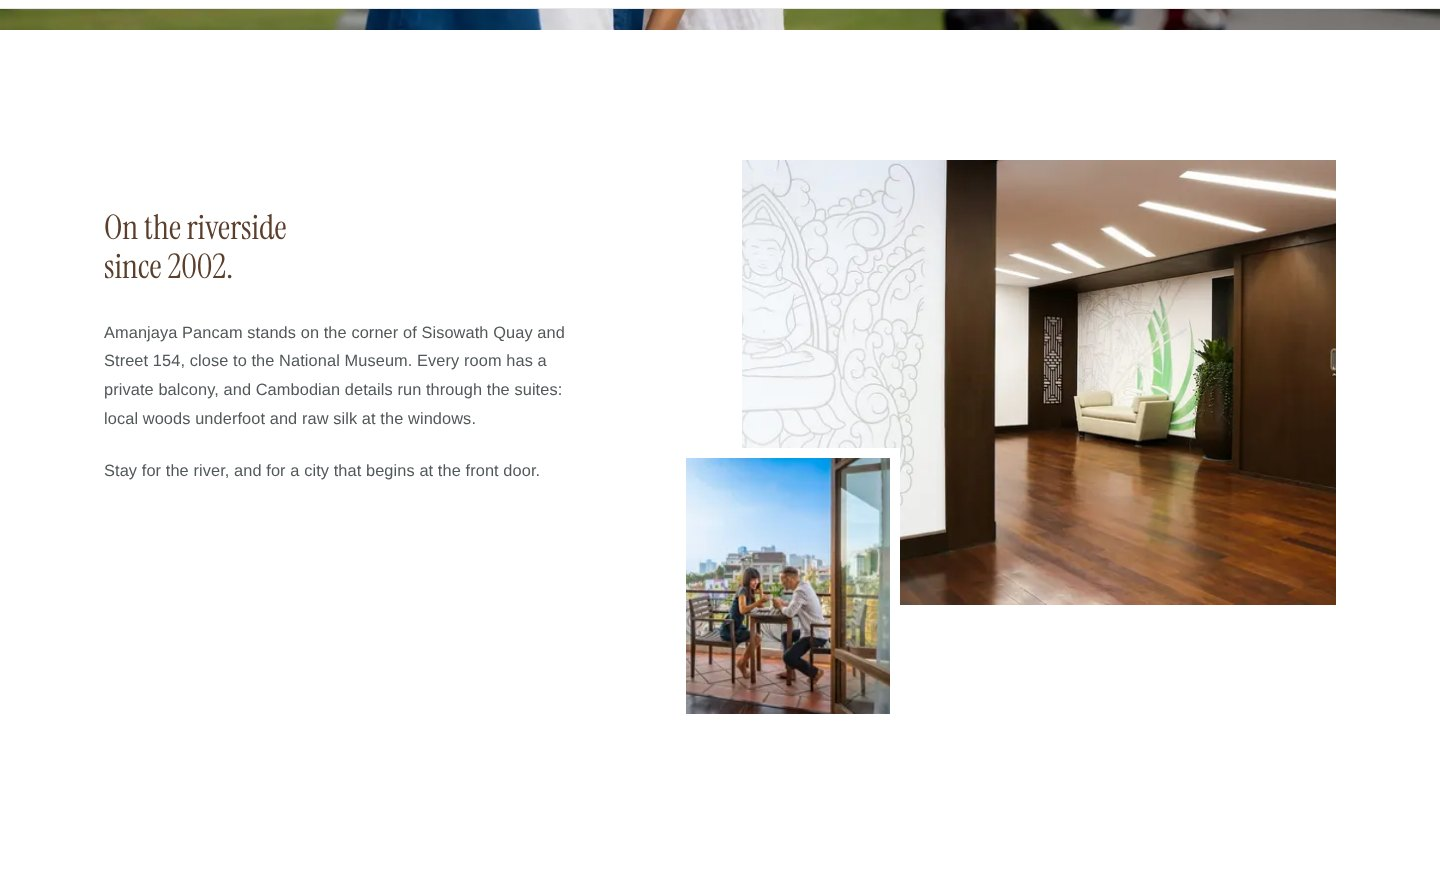
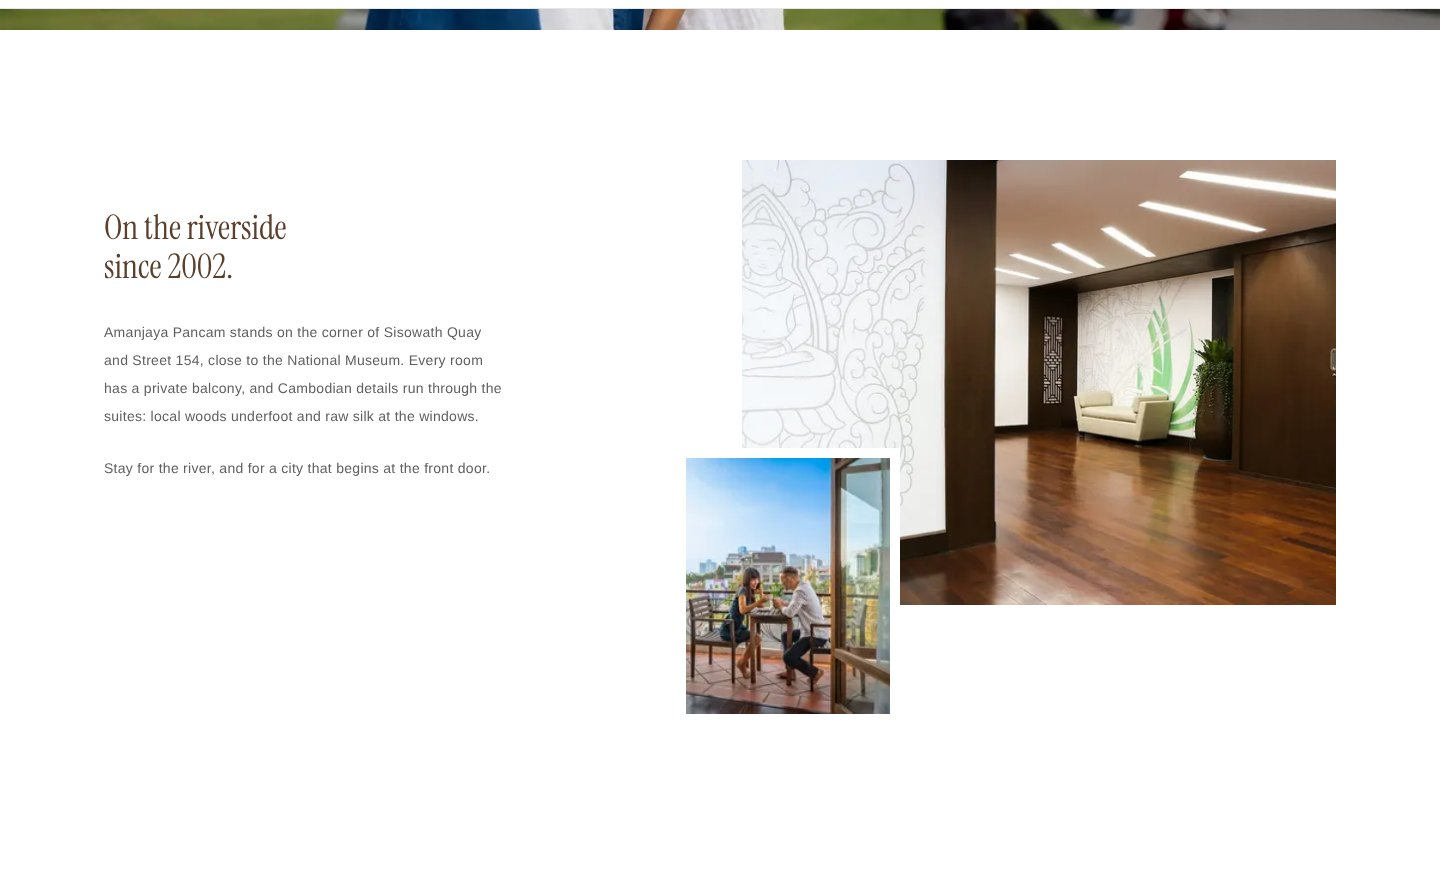
Body text: Helvetica 14px, spacing 20, line height 28, dark grey #5F5F5F
Replaces the earlier 16.5px / 1.75 / #52585A guess with the values in the
design file (Adobe XD panel): Helvetica Regular 14, character spacing 20
(0.02em), line height 28 (2.0), fill #5F5F5F (6.4:1 on white). One set of
tokens in global.css drives body text and paragraphs site-wide; the secondary
grey is now the same value. Small notes step down to 13px; buttons,
navigation, the photo-mosaic overlay and the footer's lists keep their
original line heights, so no photograph, panel or grid changes size (checked
against the previous build). Instrument Serif headings unchanged.
Before/after images refreshed; notes in docs/TYPOGRAPHY.md section 7.

Claude-Session: https://claude.ai/code/session_01Ltb6LhfXKYs7J7ZKfoUyej

Changed region(s): [[0.0625, 0.3669, 0.4062, 0.4892], [0.0625, 0.5198, 0.375, 0.5504]]

diff --git a/src/styles/global.css b/src/styles/global.css
@@ -9,8 +9,8 @@
   --bronze: #8c6a3f; /* hairlines, the waterline, small accents (4.9:1 on white) */
   --bronze-deep: #6b4e2c; /* links and small bronze text (7.6:1 on white) */
   --bronze-light: #d2b686; /* lines and links on dark (4.9:1 on teak, 6.5:1 on charcoal) */
-  --grey-text: #5c5c5c; /* secondary text (6.7:1 on white) */
-  --ink: #52585a; /* body text: a softer charcoal-grey (7.2:1 on white) */
+  --grey-text: #5f5f5f; /* secondary text: the same dark grey as the body (6.4:1 on white) */
+  --ink: #5f5f5f; /* body text: dark grey, as set in the design file (6.4:1 on white) */
   --on-dark-soft: rgb(255 255 255 / 0.82); /* body text on teak (7.0:1) and charcoal (9.0:1) */
   --line: #e6e6e6; /* neutral hairlines (header, menu) */
   --grey-fill: #f2f2f2; /* only visible while a photograph is loading */
@@ -23,9 +23,16 @@
   --font-heading: 'Montserrat Variable', 'Segoe UI', system-ui, -apple-system, sans-serif;
   --font-text: 'Helvetica Neue', Helvetica, Arial, sans-serif;
 
-  /* Fluid between 360px and 1280px wide, then fixed. Body 16 to 16.5px. */
+  /* Body text, as set in the design file (Adobe XD): Helvetica Regular 14, character spacing 20 (thousandths of an
+     em, so 0.02em), line height 28 (so 2.0), dark grey. Small notes and labels sit a step below (13px). */
+  --text-size: 0.875rem;
+  --text-small: 0.8125rem;
+  --text-leading: 2;
+  --text-tracking: 0.02em;
+
+  /* Fluid between 360px and 1280px wide, then fixed. Larger steps are for buttons and interface, not body text. */
   --step--1: clamp(0.875rem, 0.85rem + 0.1vw, 0.9375rem); /* small UI text: 14 to 15px */
-  --step-0: clamp(1rem, 0.995rem + 0.03vw, 1.03125rem); /* body: 16 to 16.5px */
+  --step-0: clamp(1rem, 0.995rem + 0.03vw, 1.03125rem); /* prominent buttons: 16 to 16.5px */
   --step-1: clamp(1.0625rem, 1.038rem + 0.109vw, 1.125rem); /* lead text and small headings: 17 to 18px */
   --step-2: clamp(1.1875rem, 1.09rem + 0.435vw, 1.4375rem); /* h3 */
   --step-3: clamp(1.5rem, 1.304rem + 0.87vw, 2rem); /* h2 */
@@ -60,9 +67,10 @@ body {
   background: var(--white);
   color: var(--ink);
   font-family: var(--font-text);
-  font-size: var(--step-0);
+  font-size: var(--text-size);
   font-weight: 400;
-  line-height: 1.75;
+  line-height: var(--text-leading);
+  letter-spacing: var(--text-tracking);
   font-optical-sizing: auto;
   text-rendering: optimizeLegibility;
 }
@@ -129,19 +137,18 @@ p {
   text-wrap: pretty;
 }
 
-/* Main body paragraphs (typography experiment): Helvetica 400 at 16 to 16.5px in a soft charcoal-grey, line height
-   1.75, almost no letter spacing, on a measure of about 52 characters of the font's width (roughly 60 characters
-   of text) so lines stay short and calm. Justification needs a long line to look even: in a column under about
+/* Main body paragraphs: Helvetica Regular 14px, character spacing 0.02em, line height 28px, dark grey #5F5F5F (the
+   values in the design file), on a measure of about 52 characters of the font's width so lines stay short and calm. Justification needs a long line to look even: in a column under about
    550px (phones, and the side-by-side columns from 56rem up) word gaps stretch to two to five times normal, so
    those are left-aligned. It is justified only where the sections stack into a wide single column (40rem to
    56rem). To justify everywhere, remove the max-width below; see docs/TYPOGRAPHY.md. */
 .copy {
   max-width: 52ch;
   font-family: var(--font-text);
-  font-size: var(--step-0);
+  font-size: var(--text-size);
   font-weight: 400;
-  line-height: 1.75;
-  letter-spacing: 0.1px;
+  line-height: var(--text-leading);
+  letter-spacing: var(--text-tracking);
   color: var(--ink);
   text-align: left;
 }
@@ -211,6 +218,7 @@ a:hover {
 
 /* The single call to action. */
 .btn {
+  line-height: 1.65; /* buttons keep their own height; the 28px body line height is for paragraphs */
   display: inline-flex;
   align-items: center;
   justify-content: center;

diff --git a/docs/TYPOGRAPHY.md b/docs/TYPOGRAPHY.md
@@ -136,15 +136,18 @@ The change (typography only: no layout, photography, room information, backgroun
 | Section headings (h2) | Montserrat 400, 24 to 32px | **Instrument Serif Regular, 30 to 34px** (34px from about 1000px wide) |
 | Room titles (room-page h1) | Montserrat 400, 28 to 46px | **Instrument Serif Regular, 36 to 40px** |
 | Sub-headings (h3: venue names, mosaic room names, price figure) | Montserrat, 19 to 23px | Instrument Serif Regular, 24 to 28px |
-| Body text | Helvetica 17.6px, `#333333`, line height 1.7, letter spacing 0.4px | **Helvetica 16 to 16.5px, `#52585A`, line height 1.75, letter spacing 0.1px** |
-| Paragraph measure | 62 characters | 52 characters (about 60 characters of text) |
+| Body text | Helvetica 17.6px, `#333333`, line height 1.7, letter spacing 0.4px | **Helvetica Regular 14px, `#5F5F5F`, line height 28px (2.0), character spacing 20 (0.02em)**, as set in the design file |
+| Paragraph measure | 62 characters | 52 characters (about 55 to 60 characters of text) |
 | Links under venues | Bronze, bold | Bronze, regular, thin underline set a little lower |
 
 Unchanged: the homepage hero (Montserrat 500 headline and supporting line), navigation, buttons, the footer's small headings, the wordmark, the room-page spec line's wording and all content. The spec line moves to Helvetica (it reads as body text now); the price figure moves to the display serif.
 
 - **Font:** Instrument Serif, regular weight only (no italic loaded), self-hosted through `@fontsource/instrument-serif` (SIL OFL), Latin subset, about 21KB. It has no Khmer, so Noto Sans Khmer remains the plan for the Khmer pages. Fallback: Iowan Old Style, Georgia, Times New Roman.
 - **Why the sizes look smaller than the numbers:** Instrument Serif is a condensed face with a small x-height, so 34px reads about like 26px of Montserrat. That is the quieter effect asked for. If the headings feel too small in review, 38 to 44px is the range to try, set in `--display-2`, `--display-1` and `--display-3` in `global.css`.
-- **Colour:** body `#52585A` on white is 7.2:1 (AA needs 4.5:1). The room names over the homepage photographs, now in the thin serif at 28px, measure 5.0:1 or better against the brightest pixels behind them. Teak headings, the footer charcoal and all backgrounds are unchanged.
+- **Body text values come from the design file (an Adobe XD text panel): Helvetica Regular, size 14, character spacing 20, line height 28, fill `#5F5F5F`.** XD's character spacing is in thousandths of an em, so 20 is 0.02em (0.28px at 14px); its sizes are CSS pixels. An earlier pass in this experiment guessed 16.5px, 1.75 and `#52585A`; these replace it.
+- **Colour:** body `#5F5F5F` on white is 6.4:1 (AA needs 4.5:1). The secondary grey is now the same value, so every body-style text is one grey. The room names over the homepage photographs, now in the thin serif at 28px, measure 5.0:1 or better against the brightest pixels behind them. Teak headings, the footer charcoal and all backgrounds are unchanged.
+- **Small notes and labels** (price note, "From", venue type, the back link, the footer note) are 13px so they stay a step below the body; the spec line and the venue links are 14px. **Interface elements keep their original line height** (buttons and navigation 1.65, the photo-mosaic overlay, the footer's lists and addresses 1.6 to 1.7): the 28px line height is for paragraphs, and applying it everywhere would have made buttons and panels taller. A layout comparison against the previous build shows every photograph, panel and grid at identical size; the footer is about 30px shorter because its text is smaller.
+- **Mobile:** 14px at 28px leading reads comfortably at 6.4:1, but 14px is on the small side for phones. If it feels small in review, 15px is the first thing to try (`--text-size` in `global.css`).
 - **Rhythm:** a little more room between a heading and its first paragraph (about 32px against 24px), 24px between paragraphs, and heading widths relaxed (16 characters) so the serif headings still break onto two lines where they did before.
-- **To revert:** `git revert` the experiment commit, or set `--font-display` to the Montserrat stack, `--ink` to `#333333`, and restore `.copy` (1.1rem, line height 1.7, letter spacing 0.4px, 62 characters).
+- **To revert:** `git revert` the experiment commit, or set `--font-display` to the Montserrat stack, `--ink` to `#333333`, and restore `.copy` (1.1rem, line height 1.7, letter spacing 0.4px, 62 characters). The body values are the `--text-size`, `--text-leading`, `--text-tracking` and `--ink` tokens at the top of `global.css`.
 - **Evidence:** `docs/screenshots/typography-experiment/`: `compare-welcome-*`, `compare-junior-description-*` and `compare-dining-*` (desktop and mobile, before above after), plus the individual `before-*` and `after-*` images (including the Riverside section, the Suites intro and the Amenities).

diff --git a/docs/DESIGN-RATIONALE.md b/docs/DESIGN-RATIONALE.md
@@ -24,7 +24,7 @@ A full-width, immersive photograph with the text set directly on it in white Mon
 
 Typography experiment 2 (the Newsreader / Hanken Grotesk direction is in git at `15a7fa7`):
 
-- **Experiment (current): section headings and room titles in Instrument Serif Regular (30 to 34px and 36 to 40px); body Helvetica 16 to 16.5px in `#52585A`, line height 1.75; see `docs/TYPOGRAPHY.md` section 7.** Navigation, buttons and the homepage hero stay Montserrat. Before the experiment: headings and interface (nav, buttons): Montserrat Regular, open source (SIL OFL) and self-hosted. Body paragraphs: the original site's Helvetica, as a system stack (`Helvetica Neue`, Helvetica, Arial, sans-serif) with no font files bundled. Open Sans was dropped (typography experiment 3, see `docs/TYPOGRAPHY.md` section 6).
+- **Experiment (current): section headings and room titles in Instrument Serif Regular (30 to 34px and 36 to 40px); body Helvetica 14px with character spacing 20 (0.02em), line height 28px, in dark grey `#5F5F5F` (the design file's values); see `docs/TYPOGRAPHY.md` section 7.** Navigation, buttons and the homepage hero stay Montserrat. Before the experiment: headings and interface (nav, buttons): Montserrat Regular, open source (SIL OFL) and self-hosted. Body paragraphs: the original site's Helvetica, as a system stack (`Helvetica Neue`, Helvetica, Arial, sans-serif) with no font files bundled. Open Sans was dropped (typography experiment 3, see `docs/TYPOGRAPHY.md` section 6).
 - Fluid scale from `--step--1` to `--step-4` between 360 and 1280px wide. Main paragraphs 17.6px (1.1rem), line height 1.7, letter spacing 0.4px; H3 19 to 23px, H2 24 to 32px, H1 28 to 46px; lines held to about 62 characters, line height 1.65 for text.
 - Quiet by design: regular weights only, sentence case, no oversized display type. Details and the history are in `docs/TYPOGRAPHY.md`.
 - Neither font covers Khmer; Noto Sans Khmer is the planned partner later.
